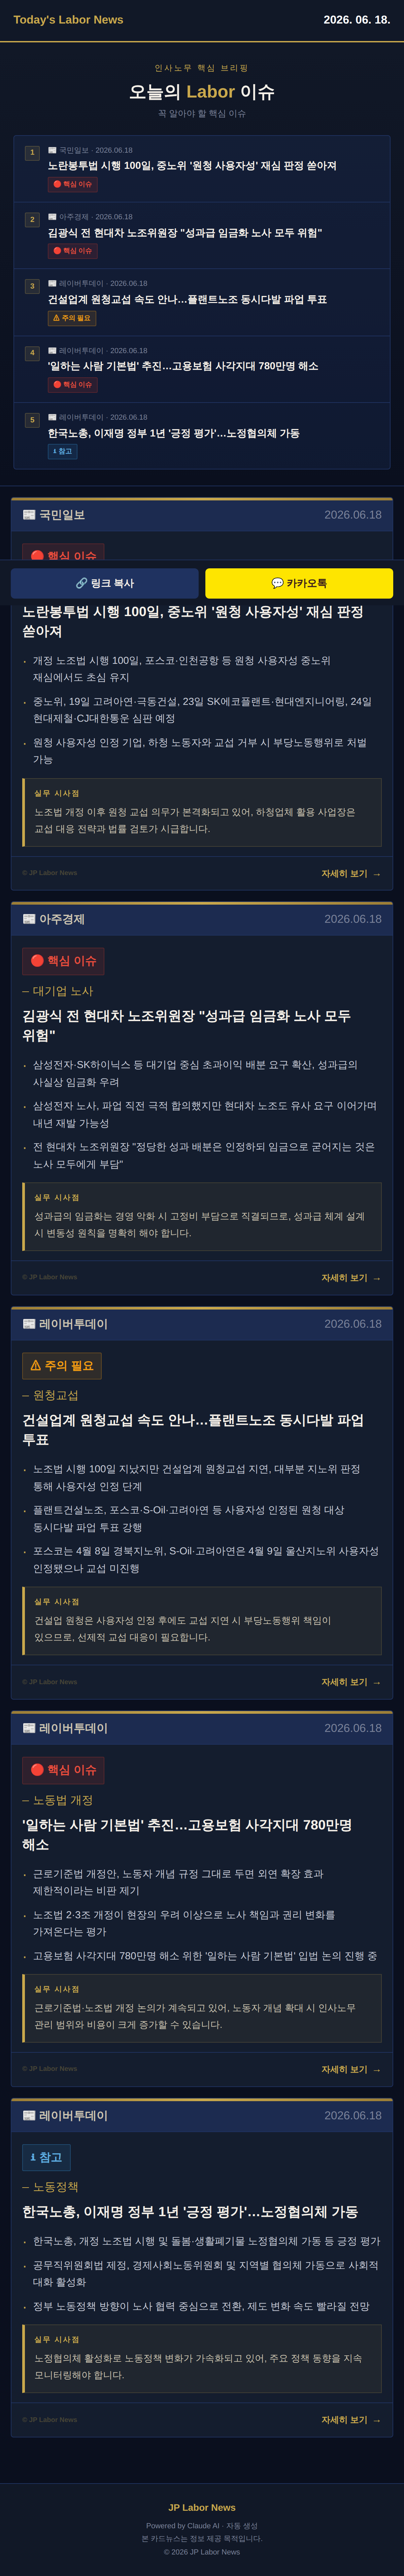
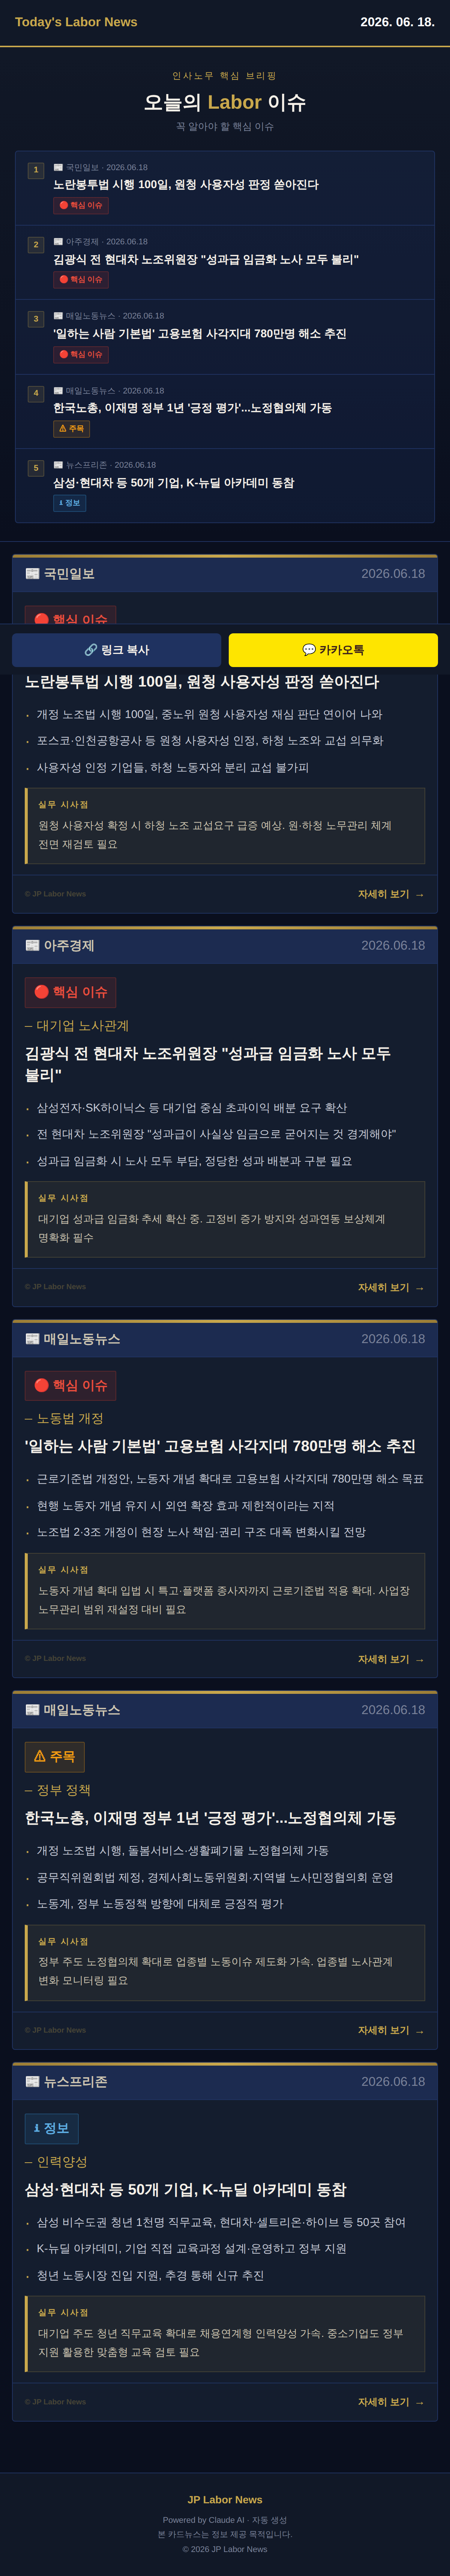
Auto: 20260618 카드뉴스 업데이트

diff --git a/cardnews/20260618/index.html b/cardnews/20260618/index.html
@@ -94,36 +94,36 @@ body{background:var(--navy);color:var(--text-body);font-family:'Apple SD Gothic 
   <div class="headline-num">1</div>
   <div class="headline-content">
     <div class="headline-source">📰 국민일보 · 2026.06.18</div>
-    <div class="headline-title">노란봉투법 시행 100일, 중노위 '원청 사용자성' 재심 판정 쏟아져</div>
+    <div class="headline-title">노란봉투법 시행 100일, 원청 사용자성 판정 쏟아진다</div>
     <span class="headline-tag tag-high">🔴 핵심 이슈</span>
   </div>
 </a><a class="headline-item" href="#news2">
   <div class="headline-num">2</div>
   <div class="headline-content">
     <div class="headline-source">📰 아주경제 · 2026.06.18</div>
-    <div class="headline-title">김광식 전 현대차 노조위원장 "성과급 임금화 노사 모두 위험"</div>
+    <div class="headline-title">김광식 전 현대차 노조위원장 "성과급 임금화 노사 모두 불리"</div>
     <span class="headline-tag tag-high">🔴 핵심 이슈</span>
   </div>
 </a><a class="headline-item" href="#news3">
   <div class="headline-num">3</div>
   <div class="headline-content">
-    <div class="headline-source">📰 레이버투데이 · 2026.06.18</div>
-    <div class="headline-title">건설업계 원청교섭 속도 안나…플랜트노조 동시다발 파업 투표</div>
-    <span class="headline-tag tag-med">⚠ 주의 필요</span>
+    <div class="headline-source">📰 매일노동뉴스 · 2026.06.18</div>
+    <div class="headline-title">'일하는 사람 기본법' 고용보험 사각지대 780만명 해소 추진</div>
+    <span class="headline-tag tag-high">🔴 핵심 이슈</span>
   </div>
 </a><a class="headline-item" href="#news4">
   <div class="headline-num">4</div>
   <div class="headline-content">
-    <div class="headline-source">📰 레이버투데이 · 2026.06.18</div>
-    <div class="headline-title">'일하는 사람 기본법' 추진…고용보험 사각지대 780만명 해소</div>
-    <span class="headline-tag tag-high">🔴 핵심 이슈</span>
+    <div class="headline-source">📰 매일노동뉴스 · 2026.06.18</div>
+    <div class="headline-title">한국노총, 이재명 정부 1년 '긍정 평가'...노정협의체 가동</div>
+    <span class="headline-tag tag-med">⚠ 주목</span>
   </div>
 </a><a class="headline-item" href="#news5">
   <div class="headline-num">5</div>
   <div class="headline-content">
-    <div class="headline-source">📰 레이버투데이 · 2026.06.18</div>
-    <div class="headline-title">한국노총, 이재명 정부 1년 '긍정 평가'…노정협의체 가동</div>
-    <span class="headline-tag tag-info">ℹ 참고</span>
+    <div class="headline-source">📰 뉴스프리존 · 2026.06.18</div>
+    <div class="headline-title">삼성·현대차 등 50개 기업, K-뉴딜 아카데미 동참</div>
+    <span class="headline-tag tag-info">ℹ 정보</span>
   </div>
 </a></div>
 </section>
@@ -132,51 +132,51 @@ body{background:var(--navy);color:var(--text-body);font-family:'Apple SD Gothic 
   <div class="card-inner">
     <div class="risk-tag risk-high">🔴 핵심 이슈</div>
     <div class="card-category">노란봉투법</div>
-    <h2 class="card-title">노란봉투법 시행 100일, 중노위 '원청 사용자성' 재심 판정 쏟아져</h2>
-    <ul class="bullet-list"><li>개정 노조법 시행 100일, 포스코·인천공항 등 원청 사용자성 중노위 재심에서도 초심 유지</li><li>중노위, 19일 고려아연·극동건설, 23일 SK에코플랜트·현대엔지니어링, 24일 현대제철·CJ대한통운 심판 예정</li><li>원청 사용자성 인정 기업, 하청 노동자와 교섭 거부 시 부당노동행위로 처벌 가능</li></ul>
-    <div class="insight"><div class="insight-label">실무 시사점</div><div class="insight-text">노조법 개정 이후 원청 교섭 의무가 본격화되고 있어, 하청업체 활용 사업장은 교섭 대응 전략과 법률 검토가 시급합니다.</div></div>
+    <h2 class="card-title">노란봉투법 시행 100일, 원청 사용자성 판정 쏟아진다</h2>
+    <ul class="bullet-list"><li>개정 노조법 시행 100일, 중노위 원청 사용자성 재심 판단 연이어 나와</li><li>포스코·인천공항공사 등 원청 사용자성 인정, 하청 노조와 교섭 의무화</li><li>사용자성 인정 기업들, 하청 노동자와 분리 교섭 불가피</li></ul>
+    <div class="insight"><div class="insight-label">실무 시사점</div><div class="insight-text">원청 사용자성 확정 시 하청 노조 교섭요구 급증 예상. 원·하청 노무관리 체계 전면 재검토 필요</div></div>
   </div>
   <div class="read-more"><span class="wm-small">© JP Labor News</span><a href="https://www.kmib.co.kr/article/view.asp?arcid=1781687407&code=11131800&cp=nv" target="_blank">자세히 보기</a></div>
 </div><div class="news-card" id="news2">
   <div class="source-bar"><span class="source-name">📰 아주경제</span><span class="source-date">2026.06.18</span></div>
   <div class="card-inner">
     <div class="risk-tag risk-high">🔴 핵심 이슈</div>
-    <div class="card-category">대기업 노사</div>
-    <h2 class="card-title">김광식 전 현대차 노조위원장 "성과급 임금화 노사 모두 위험"</h2>
-    <ul class="bullet-list"><li>삼성전자·SK하이닉스 등 대기업 중심 초과이익 배분 요구 확산, 성과급의 사실상 임금화 우려</li><li>삼성전자 노사, 파업 직전 극적 합의했지만 현대차 노조도 유사 요구 이어가며 내년 재발 가능성</li><li>전 현대차 노조위원장 "정당한 성과 배분은 인정하되 임금으로 굳어지는 것은 노사 모두에게 부담"</li></ul>
-    <div class="insight"><div class="insight-label">실무 시사점</div><div class="insight-text">성과급의 임금화는 경영 악화 시 고정비 부담으로 직결되므로, 성과급 체계 설계 시 변동성 원칙을 명확히 해야 합니다.</div></div>
+    <div class="card-category">대기업 노사관계</div>
+    <h2 class="card-title">김광식 전 현대차 노조위원장 "성과급 임금화 노사 모두 불리"</h2>
+    <ul class="bullet-list"><li>삼성전자·SK하이닉스 등 대기업 중심 초과이익 배분 요구 확산</li><li>전 현대차 노조위원장 "성과급이 사실상 임금으로 굳어지는 것 경계해야"</li><li>성과급 임금화 시 노사 모두 부담, 정당한 성과 배분과 구분 필요</li></ul>
+    <div class="insight"><div class="insight-label">실무 시사점</div><div class="insight-text">대기업 성과급 임금화 추세 확산 중. 고정비 증가 방지와 성과연동 보상체계 명확화 필수</div></div>
   </div>
   <div class="read-more"><span class="wm-small">© JP Labor News</span><a href="https://www.ajunews.com/view/20260617143541208" target="_blank">자세히 보기</a></div>
 </div><div class="news-card" id="news3">
-  <div class="source-bar"><span class="source-name">📰 레이버투데이</span><span class="source-date">2026.06.18</span></div>
-  <div class="card-inner">
-    <div class="risk-tag risk-med">⚠ 주의 필요</div>
-    <div class="card-category">원청교섭</div>
-    <h2 class="card-title">건설업계 원청교섭 속도 안나…플랜트노조 동시다발 파업 투표</h2>
-    <ul class="bullet-list"><li>노조법 시행 100일 지났지만 건설업계 원청교섭 지연, 대부분 지노위 판정 통해 사용자성 인정 단계</li><li>플랜트건설노조, 포스코·S-Oil·고려아연 등 사용자성 인정된 원청 대상 동시다발 파업 투표 강행</li><li>포스코는 4월 8일 경북지노위, S-Oil·고려아연은 4월 9일 울산지노위 사용자성 인정됐으나 교섭 미진행</li></ul>
-    <div class="insight"><div class="insight-label">실무 시사점</div><div class="insight-text">건설업 원청은 사용자성 인정 후에도 교섭 지연 시 부당노동행위 책임이 있으므로, 선제적 교섭 대응이 필요합니다.</div></div>
-  </div>
-  <div class="read-more"><span class="wm-small">© JP Labor News</span><a href="https://www.labortoday.co.kr/news/articleView.html?idxno=235153" target="_blank">자세히 보기</a></div>
-</div><div class="news-card" id="news4">
-  <div class="source-bar"><span class="source-name">📰 레이버투데이</span><span class="source-date">2026.06.18</span></div>
+  <div class="source-bar"><span class="source-name">📰 매일노동뉴스</span><span class="source-date">2026.06.18</span></div>
   <div class="card-inner">
     <div class="risk-tag risk-high">🔴 핵심 이슈</div>
     <div class="card-category">노동법 개정</div>
-    <h2 class="card-title">'일하는 사람 기본법' 추진…고용보험 사각지대 780만명 해소</h2>
-    <ul class="bullet-list"><li>근로기준법 개정안, 노동자 개념 규정 그대로 두면 외연 확장 효과 제한적이라는 비판 제기</li><li>노조법 2·3조 개정이 현장의 우려 이상으로 노사 책임과 권리 변화를 가져온다는 평가</li><li>고용보험 사각지대 780만명 해소 위한 '일하는 사람 기본법' 입법 논의 진행 중</li></ul>
-    <div class="insight"><div class="insight-label">실무 시사점</div><div class="insight-text">근로기준법·노조법 개정 논의가 계속되고 있어, 노동자 개념 확대 시 인사노무 관리 범위와 비용이 크게 증가할 수 있습니다.</div></div>
+    <h2 class="card-title">'일하는 사람 기본법' 고용보험 사각지대 780만명 해소 추진</h2>
+    <ul class="bullet-list"><li>근로기준법 개정안, 노동자 개념 확대로 고용보험 사각지대 780만명 해소 목표</li><li>현행 노동자 개념 유지 시 외연 확장 효과 제한적이라는 지적</li><li>노조법 2·3조 개정이 현장 노사 책임·권리 구조 대폭 변화시킬 전망</li></ul>
+    <div class="insight"><div class="insight-label">실무 시사점</div><div class="insight-text">노동자 개념 확대 입법 시 특고·플랫폼 종사자까지 근로기준법 적용 확대. 사업장 노무관리 범위 재설정 대비 필요</div></div>
   </div>
   <div class="read-more"><span class="wm-small">© JP Labor News</span><a href="https://www.labortoday.co.kr/news/articleView.html?idxno=235162" target="_blank">자세히 보기</a></div>
-</div><div class="news-card" id="news5">
-  <div class="source-bar"><span class="source-name">📰 레이버투데이</span><span class="source-date">2026.06.18</span></div>
+</div><div class="news-card" id="news4">
+  <div class="source-bar"><span class="source-name">📰 매일노동뉴스</span><span class="source-date">2026.06.18</span></div>
   <div class="card-inner">
-    <div class="risk-tag risk-info">ℹ 참고</div>
-    <div class="card-category">노동정책</div>
-    <h2 class="card-title">한국노총, 이재명 정부 1년 '긍정 평가'…노정협의체 가동</h2>
-    <ul class="bullet-list"><li>한국노총, 개정 노조법 시행 및 돌봄·생활폐기물 노정협의체 가동 등 긍정 평가</li><li>공무직위원회법 제정, 경제사회노동위원회 및 지역별 협의체 가동으로 사회적 대화 활성화</li><li>정부 노동정책 방향이 노사 협력 중심으로 전환, 제도 변화 속도 빨라질 전망</li></ul>
-    <div class="insight"><div class="insight-label">실무 시사점</div><div class="insight-text">노정협의체 활성화로 노동정책 변화가 가속화되고 있어, 주요 정책 동향을 지속 모니터링해야 합니다.</div></div>
+    <div class="risk-tag risk-med">⚠ 주목</div>
+    <div class="card-category">정부 정책</div>
+    <h2 class="card-title">한국노총, 이재명 정부 1년 '긍정 평가'...노정협의체 가동</h2>
+    <ul class="bullet-list"><li>개정 노조법 시행, 돌봄서비스·생활폐기물 노정협의체 가동</li><li>공무직위원회법 제정, 경제사회노동위원회·지역별 노사민정협의회 운영</li><li>노동계, 정부 노동정책 방향에 대체로 긍정적 평가</li></ul>
+    <div class="insight"><div class="insight-label">실무 시사점</div><div class="insight-text">정부 주도 노정협의체 확대로 업종별 노동이슈 제도화 가속. 업종별 노사관계 변화 모니터링 필요</div></div>
   </div>
   <div class="read-more"><span class="wm-small">© JP Labor News</span><a href="https://www.labortoday.co.kr/news/articleView.html?idxno=235164" target="_blank">자세히 보기</a></div>
+</div><div class="news-card" id="news5">
+  <div class="source-bar"><span class="source-name">📰 뉴스프리존</span><span class="source-date">2026.06.18</span></div>
+  <div class="card-inner">
+    <div class="risk-tag risk-info">ℹ 정보</div>
+    <div class="card-category">인력양성</div>
+    <h2 class="card-title">삼성·현대차 등 50개 기업, K-뉴딜 아카데미 동참</h2>
+    <ul class="bullet-list"><li>삼성 비수도권 청년 1천명 직무교육, 현대차·셀트리온·하이브 등 50곳 참여</li><li>K-뉴딜 아카데미, 기업 직접 교육과정 설계·운영하고 정부 지원</li><li>청년 노동시장 진입 지원, 추경 통해 신규 추진</li></ul>
+    <div class="insight"><div class="insight-label">실무 시사점</div><div class="insight-text">대기업 주도 청년 직무교육 확대로 채용연계형 인력양성 가속. 중소기업도 정부 지원 활용한 맞춤형 교육 검토 필요</div></div>
+  </div>
+  <div class="read-more"><span class="wm-small">© JP Labor News</span><a href="https://www.newsfreezone.co.kr/news/articleView.html?idxno=695076" target="_blank">자세히 보기</a></div>
 </div>
 
 <!-- ── 공유 바: 마지막 카드 아래, 푸터 위 ── -->